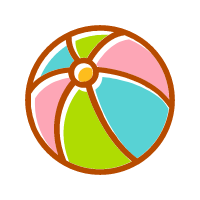
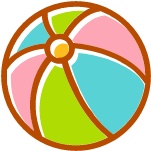
添加位置重复禁止添加逻辑

diff --git a/src/utils/Box2DUtil.java b/src/utils/Box2DUtil.java
@@ -1,6 +1,5 @@
 package utils;
 
-import com.sun.xml.internal.bind.v2.runtime.reflect.opt.Const;
 import constant.Constant;
 import entity.*;
 import org.jbox2d.collision.shapes.CircleShape;
@@ -23,36 +22,32 @@ public class Box2DUtil {
      * @param x 物体横坐标
      * @param y 物体纵坐标
      * @param size 正方形边长
-     * @param isStatic 是否固定
      * @param world 所属模拟世界
      * @param color 颜色
      */
-    public static SquareBody createSquare(float x,float y, float size, boolean isStatic, World world, Color color) {
+    public static SquareBody createSquare(float x,float y, float size, World world, Color color) {
          //自定义形状
         PolygonShape polygon =new PolygonShape();
         float r = size / 2.0f / Constant.RATE;
         polygon.setAsBox(r, r);
         //配置物体属性参数
         FixtureDef fDef=new FixtureDef();
-        if(isStatic) {
-            fDef.density=0;
-        } else {
-            fDef.density=1;
-        }
+        fDef.density=Constant.COMPONENT_DESTINY;
         //摩擦因子
         fDef.friction=1.0f;
         //恢复系数
-        fDef.restitution=2.0f;
+        fDef.restitution=1.0f;
         fDef.shape=polygon;
 
         //创建刚体
         BodyDef bodyDef=new BodyDef();
-        bodyDef.type=isStatic? BodyType.STATIC:BodyType.DYNAMIC;
+        bodyDef.gravityScale = 0;
+        bodyDef.type=BodyType.DYNAMIC;
         bodyDef.position.set(x/Constant.RATE + r,y/Constant.RATE + r);
 
         Body body=world.createBody(bodyDef);
         body.createFixture(fDef);
-        return new SquareBody(body,size/Constant.RATE,color);
+        return new SquareBody(body,r,color);
      }
 
     /**
@@ -80,7 +75,7 @@ public class Box2DUtil {
         //创建刚体
         BodyDef bodyDef=new BodyDef();
         bodyDef.type=BodyType.STATIC;
-        bodyDef.position.set(x+r,y+r);
+        bodyDef.position.set(x/Constant.RATE + r,y/Constant.RATE + r);
 
         Body body=world.createBody(bodyDef);
         body.createFixture(fDef);
@@ -113,7 +108,7 @@ public class Box2DUtil {
         //创建刚体
         BodyDef bodyDef=new BodyDef();
         bodyDef.type=BodyType.STATIC;
-        bodyDef.position.set(x+r,y+r);
+        bodyDef.position.set(x/Constant.RATE + r,y/Constant.RATE + r);
 
         Body body=world.createBody(bodyDef);
         body.createFixture(fDef);
@@ -179,7 +174,7 @@ public class Box2DUtil {
         //创建刚体
         BodyDef bodyDef=new BodyDef();
         bodyDef.type=BodyType.STATIC;
-        bodyDef.position.set(x+r,y+r);
+        bodyDef.position.set(x/Constant.RATE + r,y/Constant.RATE + r);
 
         Body body=world.createBody(bodyDef);
         body.createFixture(fDef);
@@ -198,7 +193,8 @@ public class Box2DUtil {
      */
     public static CircleBody createCircle(float x,float y, float radius, boolean isStatic, World world, Color color){
         CircleShape circleShape = new CircleShape();
-        circleShape.m_radius = radius / Constant.RATE;
+        float r = radius / 2.0f / Constant.RATE;
+        circleShape.setRadius(r);
         //配置物体属性参数
         FixtureDef fDef=new FixtureDef();
         if(isStatic) {
@@ -215,7 +211,7 @@ public class Box2DUtil {
         //创建刚体
         BodyDef bodyDef=new BodyDef();
         bodyDef.type=isStatic? BodyType.STATIC:BodyType.DYNAMIC;
-        bodyDef.position.set((x+radius)/Constant.RATE,(y+radius)/Constant.RATE);
+        bodyDef.position.set(x / Constant.RATE + r ,y / Constant.RATE + r);
         Body body=world.createBody(bodyDef);
         body.createFixture(fDef);
         return new CircleBody(body,radius/Constant.RATE,color);
@@ -233,7 +229,6 @@ public class Box2DUtil {
      */
     public static TriangleBody createTriangle(float x, float y, float size, boolean isStatic, World world, Color color){
         PolygonShape triangleShape = new PolygonShape();
-
         float r = size / 2.0f / Constant.RATE;
         triangleShape.set(new Vec2[]{new Vec2(-r, -r), new Vec2(-r, r), new Vec2(r, -r)},3);
         //配置物体属性参数
@@ -252,7 +247,7 @@ public class Box2DUtil {
         //创建刚体
         BodyDef bodyDef=new BodyDef();
         bodyDef.type=isStatic? BodyType.STATIC:BodyType.DYNAMIC;
-        bodyDef.position.set(x+r,y+r);
+        bodyDef.position.set(x/Constant.RATE + r,y/Constant.RATE + r);
         Body body=world.createBody(bodyDef);
         body.createFixture(fDef);
         return new TriangleBody(body,size/Constant.RATE,color);
@@ -263,15 +258,14 @@ public class Box2DUtil {
      * 创建小球
      * @param x 小球横坐标（左上）
      * @param y 小球纵坐标（左上）
-     * @param radius 半径
      * @param world 所属虚拟世界
      * @param color 物体颜色
      * @return
      */
-    public static Ball createBall(float x, float y, float radius, World world, Color color){
+    public static Ball createBall(float x, float y, World world, Color color){
         CircleShape ballShape = new CircleShape();
 
-        float r = radius / 2.0f / Constant.RATE;
+        float r = 1 / 2.0f / Constant.RATE;
         ballShape.setRadius(r);
         //配置物体属性参数
         FixtureDef fDef=new FixtureDef();

diff --git a/src/controller/GameController.java b/src/controller/GameController.java
@@ -29,6 +29,13 @@ public class GameController implements UiListener{
         Box2DUtil.createBoarder(Constant.GRID_COUNT,Constant.GRID_COUNT,world);
     }
 
+    /**
+     * 判断当前位置是否为空
+     * @param x 坐标x
+     * @param y 坐标y
+     * @param size size大小
+     * @return
+     */
     public boolean isEmpty(int x, int y, int size) {
         for (int i = x; i < x + size; i++) {
             for (int j = y; j < y + size; j++) {
@@ -40,17 +47,22 @@ public class GameController implements UiListener{
         return true;
     }
 
+    /**
+     * 根据坐标获取组件（第一个被添加的）
+     * @param x 坐标x
+     * @param y 坐标y
+     * @return
+     */
     private AbstractCustomBody getComponent(int x,int y) {
-        //TODO:
-//        for (int i = 0; i < components.size(); i++) {
-//            AbstractCustomBody temp = components.get(i);
-//            int tempX = temp.getX();
-//            int tempY = temp.getY();
-//            int sizeRate = temp.getSizeRate();
-//            if (x >= tempX && x < tempX + sizeRate && y >= tempY && y < tempY + sizeRate){
-//                return temp;
-//            }
-//        }
+        for (int i = 0; i < components.size(); i++) {
+            AbstractCustomBody comp = components.get(i);
+            float size = comp.getSize()*Constant.RATE;
+            float x1 = comp.getBody().getPosition().x*Constant.RATE-size;
+            float y1 = comp.getBody().getPosition().y*Constant.RATE-size;
+            if (x >= x1 && x < x1 + size*2 && y >= y1 && y < y1 + size*2){
+                return comp;
+            }
+        }
         return null;
     }
 
@@ -67,7 +79,7 @@ public class GameController implements UiListener{
                     components.add(triangleBody);
                     break;
                 case Constant.COMPONENT_SQUARE:
-                    SquareBody squareBody = Box2DUtil.createSquare(point.x,point.y,size,true,world,Constant.COLOR_SQUARE);
+                    SquareBody squareBody = Box2DUtil.createSquare(point.x,point.y,size,world,Constant.COLOR_SQUARE);
                     components.add(squareBody);
                     break;
                 case Constant.COMPONENT_TRAPEZOID:
@@ -75,7 +87,7 @@ public class GameController implements UiListener{
                     components.add(trapezoidBody);
                     break;
                 case Constant.COMPONENT_BALL:
-                    Ball ball = Box2DUtil.createBall(point.x,point.y,size,world,Constant.COLOR_SQUARE);
+                    Ball ball = Box2DUtil.createBall(point.x,point.y,world,Constant.COLOR_SQUARE);
                     components.add(ball);
                     break;
                 case Constant.COMPONENT_ADVANCED_SQUARE:

diff --git a/src/constant/Constant.java b/src/constant/Constant.java
@@ -1,5 +1,7 @@
 package constant;
 
+import utils.ImageUtils;
+
 import java.awt.*;
 
 /**
@@ -12,18 +14,19 @@ public class Constant {
     /**比例尺(网格 : 模拟)*/
     public static final float RATE = 1.0f / 10.0f;
 
-    /**迭代次数*/
-    public static final int ITERA = 10;
-
     /**模拟的频率*/
     public static final float TIME_STEP = 1.0f / 30.0f;
     public static final int VELOCITY_ITERATION = 6;
     public static final int POSITION_ITERATION = 2;
+
     /**绘制线程工作标志位*/
     public static boolean DRAW_THREAD_FLAG = false;
 
     public static final int BOARD_SIZE = 600;
     public static final int GRID_COUNT = 20;
+
+    public static final int BALL_SIZE = BOARD_SIZE/GRID_COUNT;
+    public static final int COMPONENT_DESTINY = 100;
 
     public static final int WINDOW_MAIN_WIDTH = 852;
     public static final int WINDOW_MAIN_HEIGHT = 680;
@@ -60,4 +63,6 @@ public class Constant {
     public static final Color COLOR_BALL = new Color(188,187,194);
     public static final Color COLOR_ADVANCE_SQUARE = new Color(232,152,154);
     public static final Color COLOR_STICK = new Color(243,202,126);
+
+    public static final Image IMAGE_BALL = ImageUtils.getImageNotIcon("ball.png",BALL_SIZE,BALL_SIZE);
 }

diff --git a/src/ui/MenuBar.java b/src/ui/MenuBar.java
@@ -15,24 +15,25 @@ public class MenuBar extends JMenuBar {
 
     public MenuBar(OperationListener listener) {
         this.listener = listener;
+
         JMenu mnFile = new JMenu("File");
         JMenuItem mNew = new JMenuItem("New");
-        JMenuItem m_open = new JMenuItem("Open");
+        JMenuItem mOpen = new JMenuItem("Open");
         JMenuItem mSave = new JMenuItem("Save");
         JMenuItem mExit = new JMenuItem("Exit");
         JMenu mnSetting = new JMenu("Setting");
-        JCheckBoxMenuItem mCheckcollision = new JCheckBoxMenuItem("Collision Effect");
+        JCheckBoxMenuItem mCheckCollision = new JCheckBoxMenuItem("Collision Effect");
         JMenu mnHelp = new JMenu("Help");
         JMenuItem mntmAbout = new JMenuItem("About");
 
         this.add(mnFile);
         mnFile.add(mNew);
-        mnFile.add(m_open);
+        mnFile.add(mOpen);
         mnFile.add(mSave);
         mnFile.add(mExit);
 
         this.add(mnSetting);
-        mnSetting.add(mCheckcollision);
+        mnSetting.add(mCheckCollision);
 
         this.add(mnHelp);
         mnHelp.add(mntmAbout);

diff --git a/src/entity/base/AbstractCustomBody.java b/src/entity/base/AbstractCustomBody.java
@@ -13,10 +13,14 @@ import java.awt.*;
  * @date 2017/11/21
  */
 public abstract class AbstractCustomBody {
-    protected Body body;      //JBox2D物理引擎中的刚体(Body)
-    protected Color color;      //刚体的颜色
-    protected int type;       //物体类型
-    protected float size;       //物体尺寸，可以是半径或者边长
+    /**JBox2D物理引擎中的刚体(Body)*/
+    protected Body body;
+    /**刚体的颜色*/
+    protected Color color;
+    /**物体类型*/
+    protected int type;
+    /**物体尺寸，可以是半径或者边长*/
+    protected float size;
 
     public int getType() {
         return type;

diff --git a/src/entity/SquareBody.java b/src/entity/SquareBody.java
@@ -27,9 +27,9 @@ public class SquareBody extends AbstractCustomBody{
     @Override
     public void drawSelf(Graphics g) {
         Vec2 vec2 = body.getPosition();
-        float x = vec2.x - size/2.0f;
-        float y = vec2.y - size/2.0f;
+        float x = vec2.x - size;
+        float y = vec2.y - size;
         int unitSize = Constant.BOARD_SIZE/Constant.GRID_COUNT;
-        DrawUtils.drawSquare(x*Constant.RATE*unitSize,y*Constant.RATE*unitSize,g,size*Constant.RATE*unitSize);
+        DrawUtils.drawSquare(x*Constant.RATE*unitSize,y*Constant.RATE*unitSize,g,size*Constant.RATE*unitSize*2);
     }
 }

diff --git a/src/entity/Ball.java b/src/entity/Ball.java
@@ -6,7 +6,6 @@ import org.jbox2d.common.Vec2;
 import org.jbox2d.dynamics.Body;
 import utils.DrawUtils;
 
-import javax.swing.*;
 import java.awt.*;
 
 /**
@@ -28,6 +27,6 @@ public class Ball extends AbstractCustomBody {
         float x = vec2.x-size;
         float y = vec2.y-size;
         int unitSize = Constant.BOARD_SIZE/Constant.GRID_COUNT;
-        DrawUtils.drawCircle(x*Constant.RATE*unitSize,y*Constant.RATE*unitSize,g,size*Constant.RATE*unitSize);
+        DrawUtils.drawBall(x*Constant.RATE*unitSize,y*Constant.RATE*unitSize,g);
     }
 }

diff --git a/src/thread/DrawThread.java b/src/thread/DrawThread.java
@@ -26,7 +26,7 @@ public class DrawThread extends Thread {
             world.step(Constant.TIME_STEP,Constant.VELOCITY_ITERATION,Constant.POSITION_ITERATION);
             operationListener.onRepaintBoard();
             try {
-                Thread.sleep(40);
+                Thread.sleep(20);
             } catch (InterruptedException e) {
                 e.printStackTrace();
             }

diff --git a/src/utils/DrawUtils.java b/src/utils/DrawUtils.java
@@ -15,4 +15,8 @@ public class DrawUtils {
         g.setColor(Constant.COLOR_SQUARE);
         g.fillRect((int) x,(int) y,(int) size,(int) size);
     }
+
+    public static void drawBall(float x,float y, Graphics g) {
+        g.drawImage(Constant.IMAGE_BALL,(int)x,(int)y,null);
+    }
 }

diff --git a/src/utils/FileUtils.java b/src/utils/FileUtils.java
@@ -6,4 +6,5 @@ package utils;
  * @date 2017/11/21
  */
 public class FileUtils {
+    
 }
